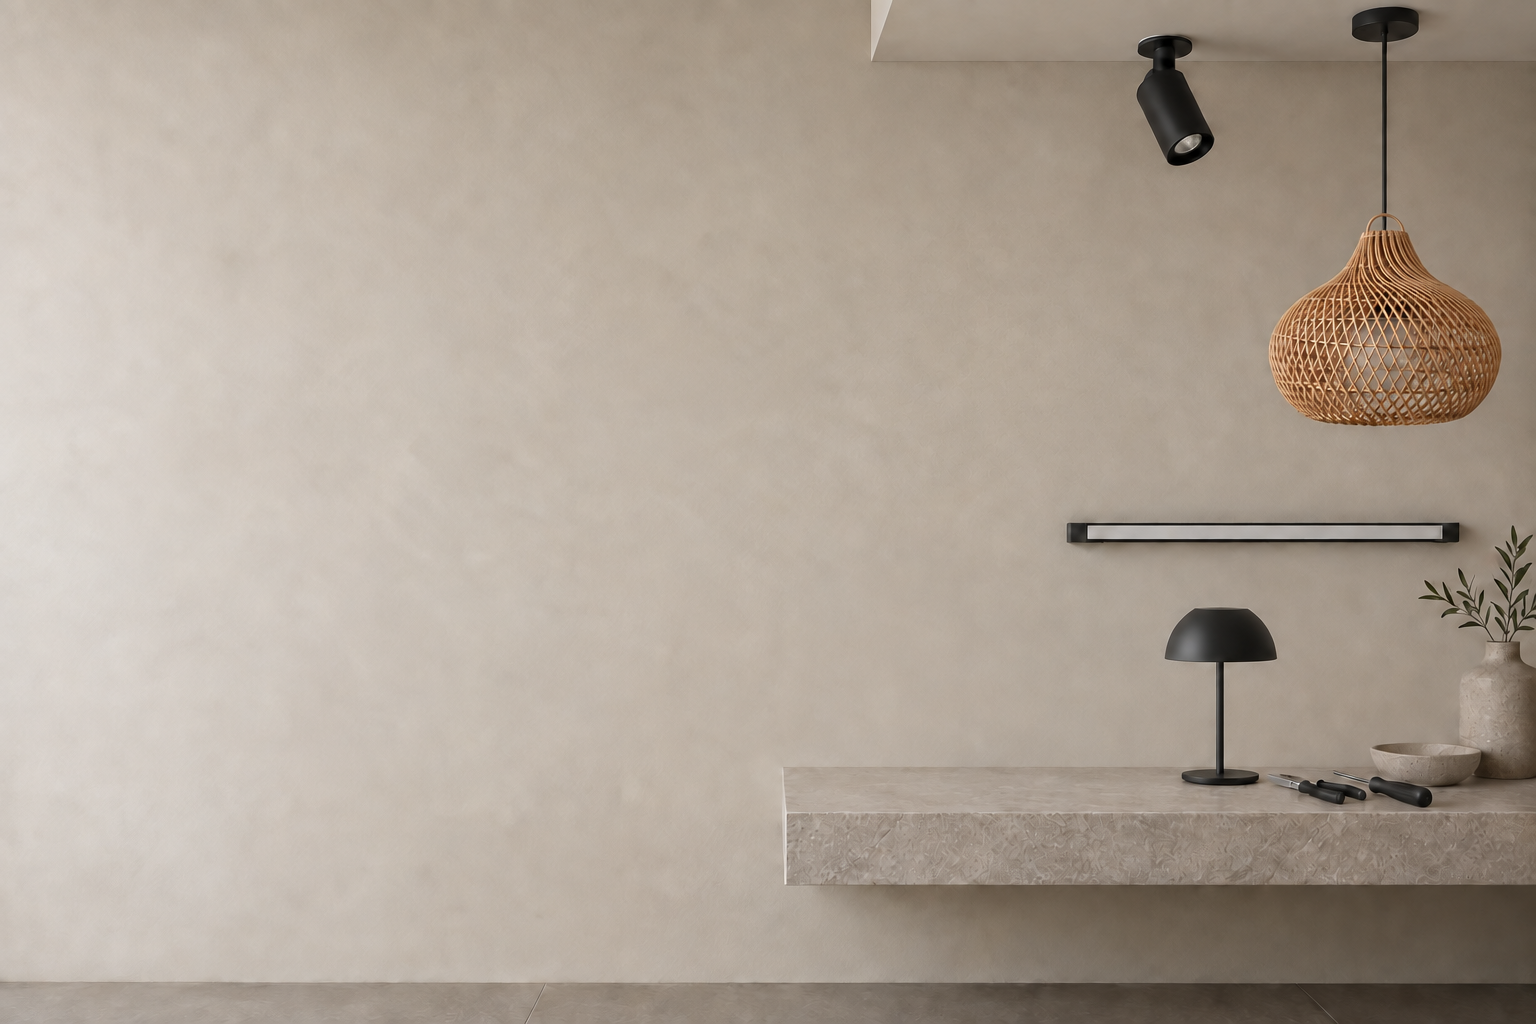
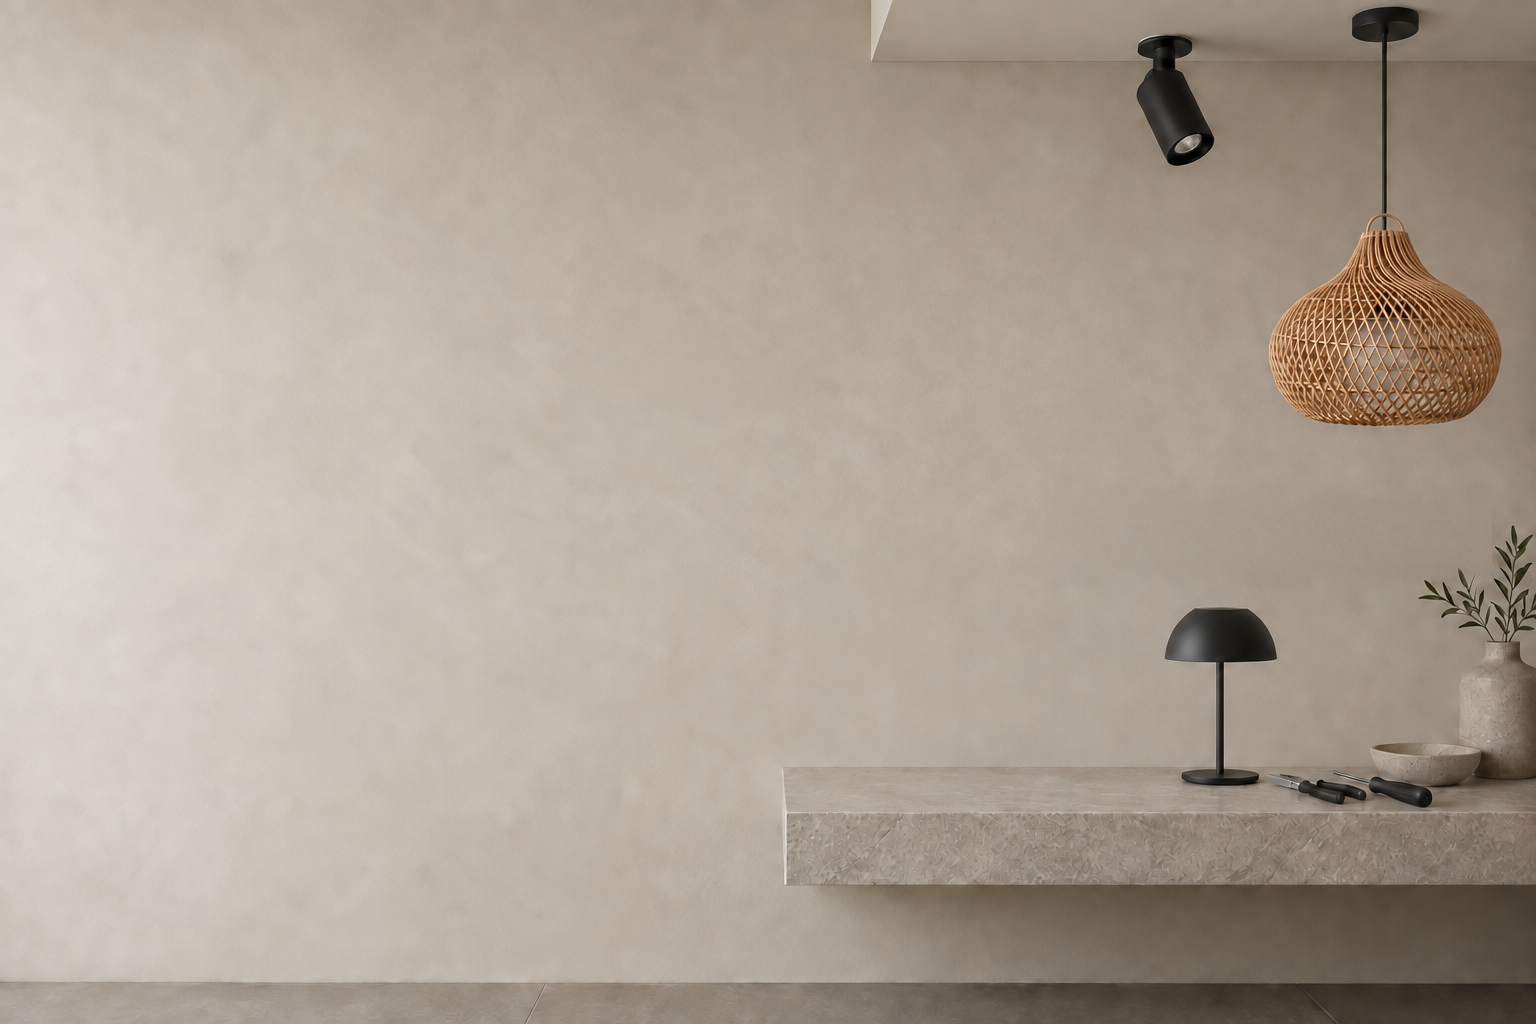
fix(clientes): en mobile la luminaria lineal pasa a ser una tira bajo la mesada
En la foto de mobile la barra quedaba detrás del párrafo. Se borra de la
pared (sin marcas) y su luz pasa a ser una tira LED oculta que ilumina el
borde inferior de la mesada de punta a punta. Desktop sin cambios.

Changed region(s): [[0.6875, 0.5, 0.9688, 0.5625]]

diff --git a/apps/clientes/src/components/home/InteractiveHero.tsx b/apps/clientes/src/components/home/InteractiveHero.tsx
@@ -1,7 +1,7 @@
 "use client";
 
 import { useEffect, useId, useRef, useState, type ReactNode } from "react";
-import { COVER_HIDDEN_LIGHTS, COVER_QUERY, HERO_LIGHTS, STUDIO_IMAGE_MOBILE, proximity, sceneRect } from "./hero-lights";
+import { COVER_HIDDEN_LIGHTS, COVER_QUERY, COVER_SHELF_STRIP, HERO_LIGHTS, STUDIO_IMAGE_MOBILE, lightAt, proximity, sceneRect } from "./hero-lights";
 import styles from "./InteractiveHero.module.css";
 
 /** Each lamp of the first-view intro stays on this long; the fade matches `[data-intro]` in the CSS module. */
@@ -96,7 +96,7 @@ export function InteractiveHero({ children, enabled }: { children: ReactNode; en
         if (!fit.scale) return;
         const x = (event.clientX - bounds.left - fit.left) / fit.scale;
         const y = (event.clientY - bounds.top - fit.top) / fit.scale;
-        paint(HERO_LIGHTS.map(light => proximity(x, y, light)));
+        paint(HERO_LIGHTS.map(light => proximity(x, y, lightAt(light, cover.matches))));
       });
     };
     const leave = () => { cancelAnimationFrame(frame); paint([]); };
@@ -173,17 +173,23 @@ export function InteractiveHero({ children, enabled }: { children: ReactNode; en
               <path d="M1320 423 L1450 423 L1536 780 L1234 780 Z" fill={`url(#${uid}-beam)`} filter={`url(#${uid}-blur)`}/>
               <ellipse cx="1385" cy="786" rx="146" ry="25" fill={`url(#${uid}-glow)`}/>
             </>}
-            {i === 4 && <>
+            {i === 4 && !covered && <>
               <rect x="1087" y="524" width="355" height="17" rx="3" fill="#ffe4ac" filter={`url(#${uid}-blur)`}/>
               <rect x="1087" y="527" width="355" height="11" fill="#fff5dc"/>
               <ellipse cx="1265" cy="560" rx="210" ry="68" fill={`url(#${uid}-glow)`}/>
+            </>}
+            {i === 4 && covered && <>
+              {/* Mobile: no fixture in the photo, just a hidden strip lighting the shelf's underside edge to edge. */}
+              <rect x={COVER_SHELF_STRIP.x} y={COVER_SHELF_STRIP.y - 3} width={COVER_SHELF_STRIP.width} height="10" fill="#ffe4ac" filter={`url(#${uid}-soft)`}/>
+              <rect x={COVER_SHELF_STRIP.x + 4} y={COVER_SHELF_STRIP.y} width={COVER_SHELF_STRIP.width - 4} height="3" fill="#fff5dc"/>
+              <rect x={COVER_SHELF_STRIP.x} y={COVER_SHELF_STRIP.y + 2} width={COVER_SHELF_STRIP.width} height="96" fill={`url(#${uid}-beam)`} filter={`url(#${uid}-soft)`}/>
             </>}
           </g>)}
         </svg>
         {HERO_LIGHTS.map((light, i) => covered && COVER_HIDDEN_LIGHTS.has(light.id) ? null : <button key={light.id} type="button" className={styles.target}
           aria-label={light.label} aria-pressed={pressed.includes(i)} onClick={() => toggle(i)}
-          style={{ left: rect.left + light.x * rect.scale, top: rect.top + light.y * rect.scale,
-            width: (i === 0 ? 220 : i === 4 ? 355 : 96) * rect.scale, height: (i === 0 ? 220 : 96) * rect.scale }} />)}
+          style={{ left: rect.left + lightAt(light, covered).x * rect.scale, top: rect.top + lightAt(light, covered).y * rect.scale,
+            width: (i === 0 ? 220 : i === 4 ? (covered ? COVER_SHELF_STRIP.width : 355) : 96) * rect.scale, height: (i === 0 ? 220 : 96) * rect.scale }} />)}
       </>}
     </div>
   </div>;

diff --git a/apps/clientes/src/components/home/hero-lights.ts b/apps/clientes/src/components/home/hero-lights.ts
@@ -7,7 +7,9 @@ export const HERO_LIGHTS = [
   { id: "linear", label: "Luminaria lineal", x: 1265, y: 533, radius: 210 },
 ] as const;
 
-export function proximity(x: number, y: number, light: typeof HERO_LIGHTS[number]) {
+type Light = { readonly id: string; readonly x: number; readonly y: number; readonly radius: number };
+
+export function proximity(x: number, y: number, light: Light) {
   const distance = Math.hypot(x - light.x, y - light.y);
   const t = Math.max(0, 1 - distance / light.radius);
   return t * t * (3 - 2 * t);
@@ -34,6 +36,18 @@ export const STUDIO_IMAGE = "/images/central-led/studio-bell-bamboo-v2.webp";
 export const STUDIO_IMAGE_MOBILE = "/images/central-led/studio-bell-bamboo-v2-mobile.webp";
 /** Lights missing from the mobile photo: no glow, no control, left out of the intro and scroll. */
 export const COVER_HIDDEN_LIGHTS: ReadonlySet<string> = new Set(["neon"]);
+/**
+ * Lights that sit elsewhere in the mobile photo, in source px. The linear bar is gone
+ * from its wall there; its light is a hidden strip under the shelf (x 786-1536, y 884).
+ */
+export const COVER_LIGHT_SHIFT: Readonly<Record<string, { dx: number; dy: number }>> = { linear: { dx: -104, dy: 357 } };
+/** The under-shelf strip of the mobile photo, in source px. */
+export const COVER_SHELF_STRIP = { x: 786, y: 884, width: 750 } as const;
+/** Where a light is in the photo this viewport shows. */
+export function lightAt<T extends Light>(light: T, cover: boolean): T {
+  const shift = cover ? COVER_LIGHT_SHIFT[light.id] : undefined;
+  return shift ? { ...light, x: light.x + shift.dx, y: light.y + shift.dy } : light;
+}
 export function isStudioImage(src: string) {
   return src === "/images/hero-neutral.webp" || src === "/images/central-led/studio-off.webp" || src === STUDIO_IMAGE;
 }

diff --git a/apps/clientes/src/components/home/hero-lights.test.ts b/apps/clientes/src/components/home/hero-lights.test.ts
@@ -1,5 +1,5 @@
 import { describe, expect, it } from "vitest";
-import { COVER_X, HERO_LIGHTS, isStudioImage, proximity, sceneRect } from "./hero-lights";
+import { COVER_X, HERO_LIGHTS, isStudioImage, lightAt, proximity, sceneRect } from "./hero-lights";
 
 describe("studio lighting geometry", () => {
   it("keeps the entire source aligned with contain at desktop and touch sizes", () => {
@@ -25,6 +25,12 @@ describe("studio lighting geometry", () => {
       expect(rect.left).toBeCloseTo((width - rect.width) * COVER_X);
       expect(rect.top * 2 + rect.height).toBeCloseTo(height);
     }
+  });
+  it("moves the linear light to the under-shelf strip only in the mobile photo", () => {
+    const linear = HERO_LIGHTS.find(light => light.id === "linear")!;
+    expect(lightAt(linear, false)).toBe(linear);
+    expect(lightAt(linear, true)).toMatchObject({ x: 1161, y: 890 });
+    expect(lightAt(HERO_LIGHTS[1], true)).toBe(HERO_LIGHTS[1]);
   });
   it("uses independent continuous falloff, with exact off outside the radius", () => {
     const light = HERO_LIGHTS[1];

diff --git a/apps/clientes/docs/central-led-hero-v2.md b/apps/clientes/docs/central-led-hero-v2.md
@@ -17,3 +17,7 @@ EDIT the first image, a 1536x1024 photorealistic studio hero. Keep exact camera,
 ## Mobile edit prompt
 
 Edit this exact 1536x1024 studio photograph for its mobile variant. Remove ONLY the large unlit white circular neon ring and its two black brackets from the wall at center (996,346). Reconstruct seamless natural beige plaster behind the removed ring. Keep EVERYTHING ELSE pixel aligned and unchanged: BELL-N black table lamp at x1221 y660-782, bamboo pendant x1385 y214-425, spotlight, linear light bar, shelf, tools, vase, bowl, textures, shadows, left empty space, camera, scale, crop and color. ALL lamps remain OFF, no glow, no lighting emission. Do not move any object. Output same 1536x1024 dimensions.
+
+## Mobile: linear light under the shelf
+
+In the mobile variant only, the linear wall bar sat right behind the lead paragraph. It was removed from the wall (plaster rebuilt from a smooth fit of the surrounding wall plus its own grain, leaves masked out) and no fixture replaces it. On mobile its light is drawn as a hidden LED strip along the shelf's underside, edge to edge (`COVER_SHELF_STRIP`: x 786-1536, y 884), and `COVER_LIGHT_SHIFT` moves its control there; desktop is unchanged.
